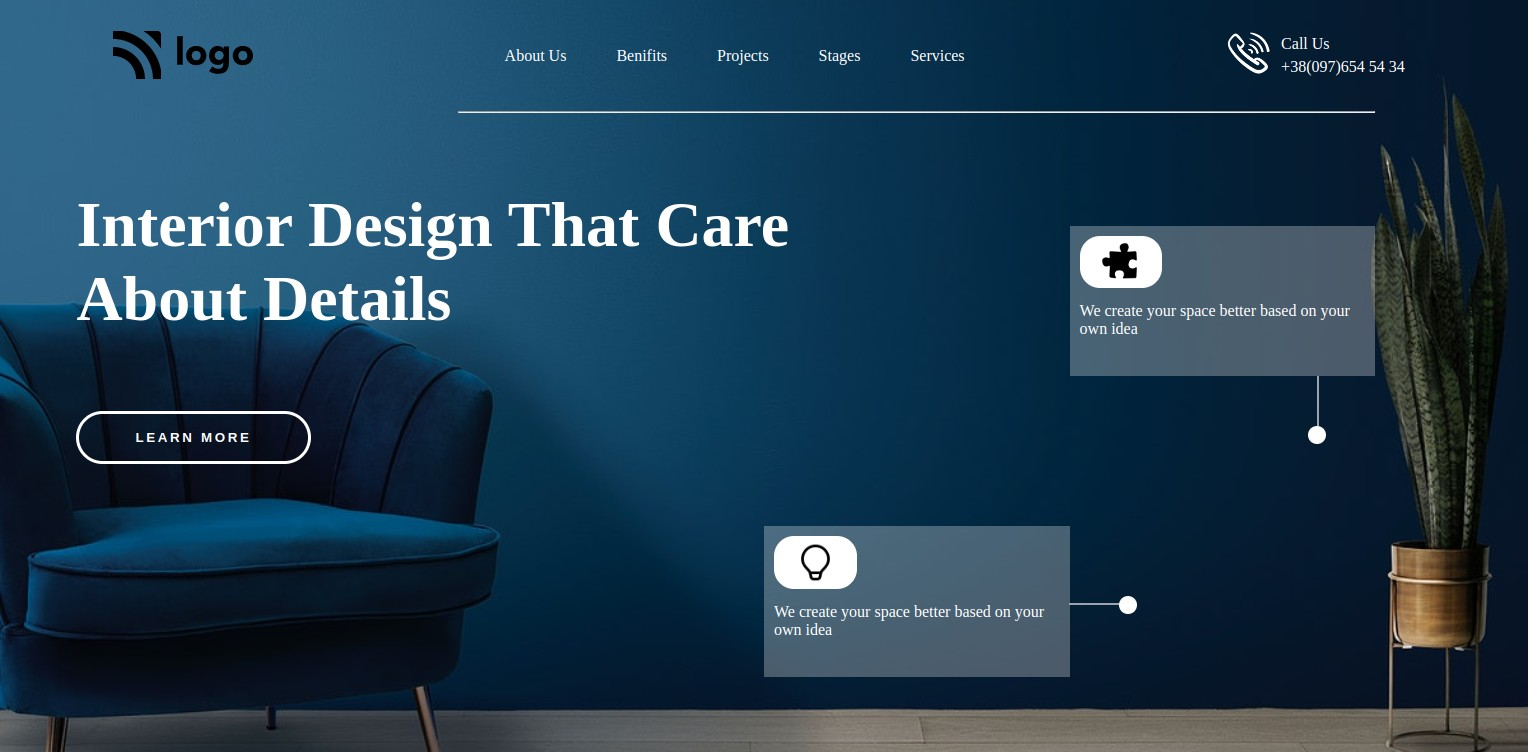
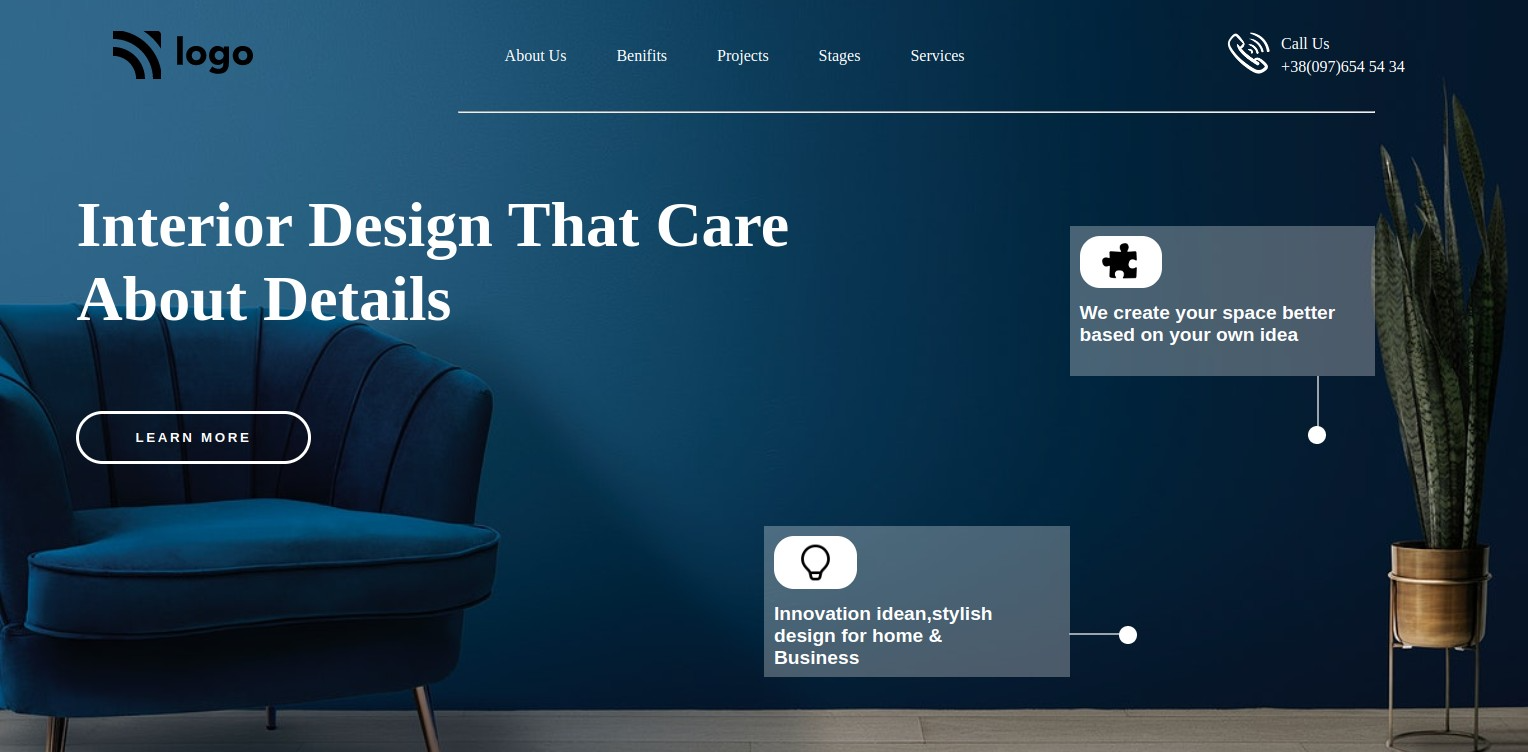
fixed text and Image

Changed region(s): [[0.4921, 0.7952, 0.6767, 0.887], [0.7075, 0.3976, 0.892, 0.4588], [0.7075, 0.7952, 0.769, 0.8564]]

diff --git a/index.html b/index.html
@@ -36,7 +36,7 @@
         </div>
         <div class="puzz_container">
             <img src="./images/puzzle.png" alt="Puzzle logo"  class="basic_img">
-            <p>We create your space better based on your own idea</p>
+            <p class="card_des">We create your space better based on your own idea</p>
             <img src="./images/line.png" alt="line image" class="line_img_fir">
         </div>
         <div class="button-div">
@@ -44,7 +44,7 @@
         </div>
         <div class="light_containr">
             <img src="./images/light.png" alt="Light logo" class="basic_img">
-            <p>We create your space better based on your own idea</p>
+            <p class="card_des extra_padd">Innovation idean,stylish design for home & Business</p>
             <img src="./images/line.png" alt="line image" class="line_img_sec">
         </div>
     </div>

diff --git a/styles/style.css b/styles/style.css
@@ -76,6 +76,14 @@ position:absolute;
 top:70vh;
 left:50vw;
 }
+.card_des{
+    font-family:sans-serif;
+    font-size: 1.2rem;
+    font-weight: 700;
+}
+.extra_padd{
+    padding-right: 40px;
+}
 .basic_img+p{
     margin-top: 10px;
     margin-left: 10px;
@@ -95,7 +103,7 @@ left:50vw;
 }
 .line_img_fir{
     position:relative;
-    top:5vh;
+    top:4vh;
     left:15vw;
 }
 .line_img_sec{
